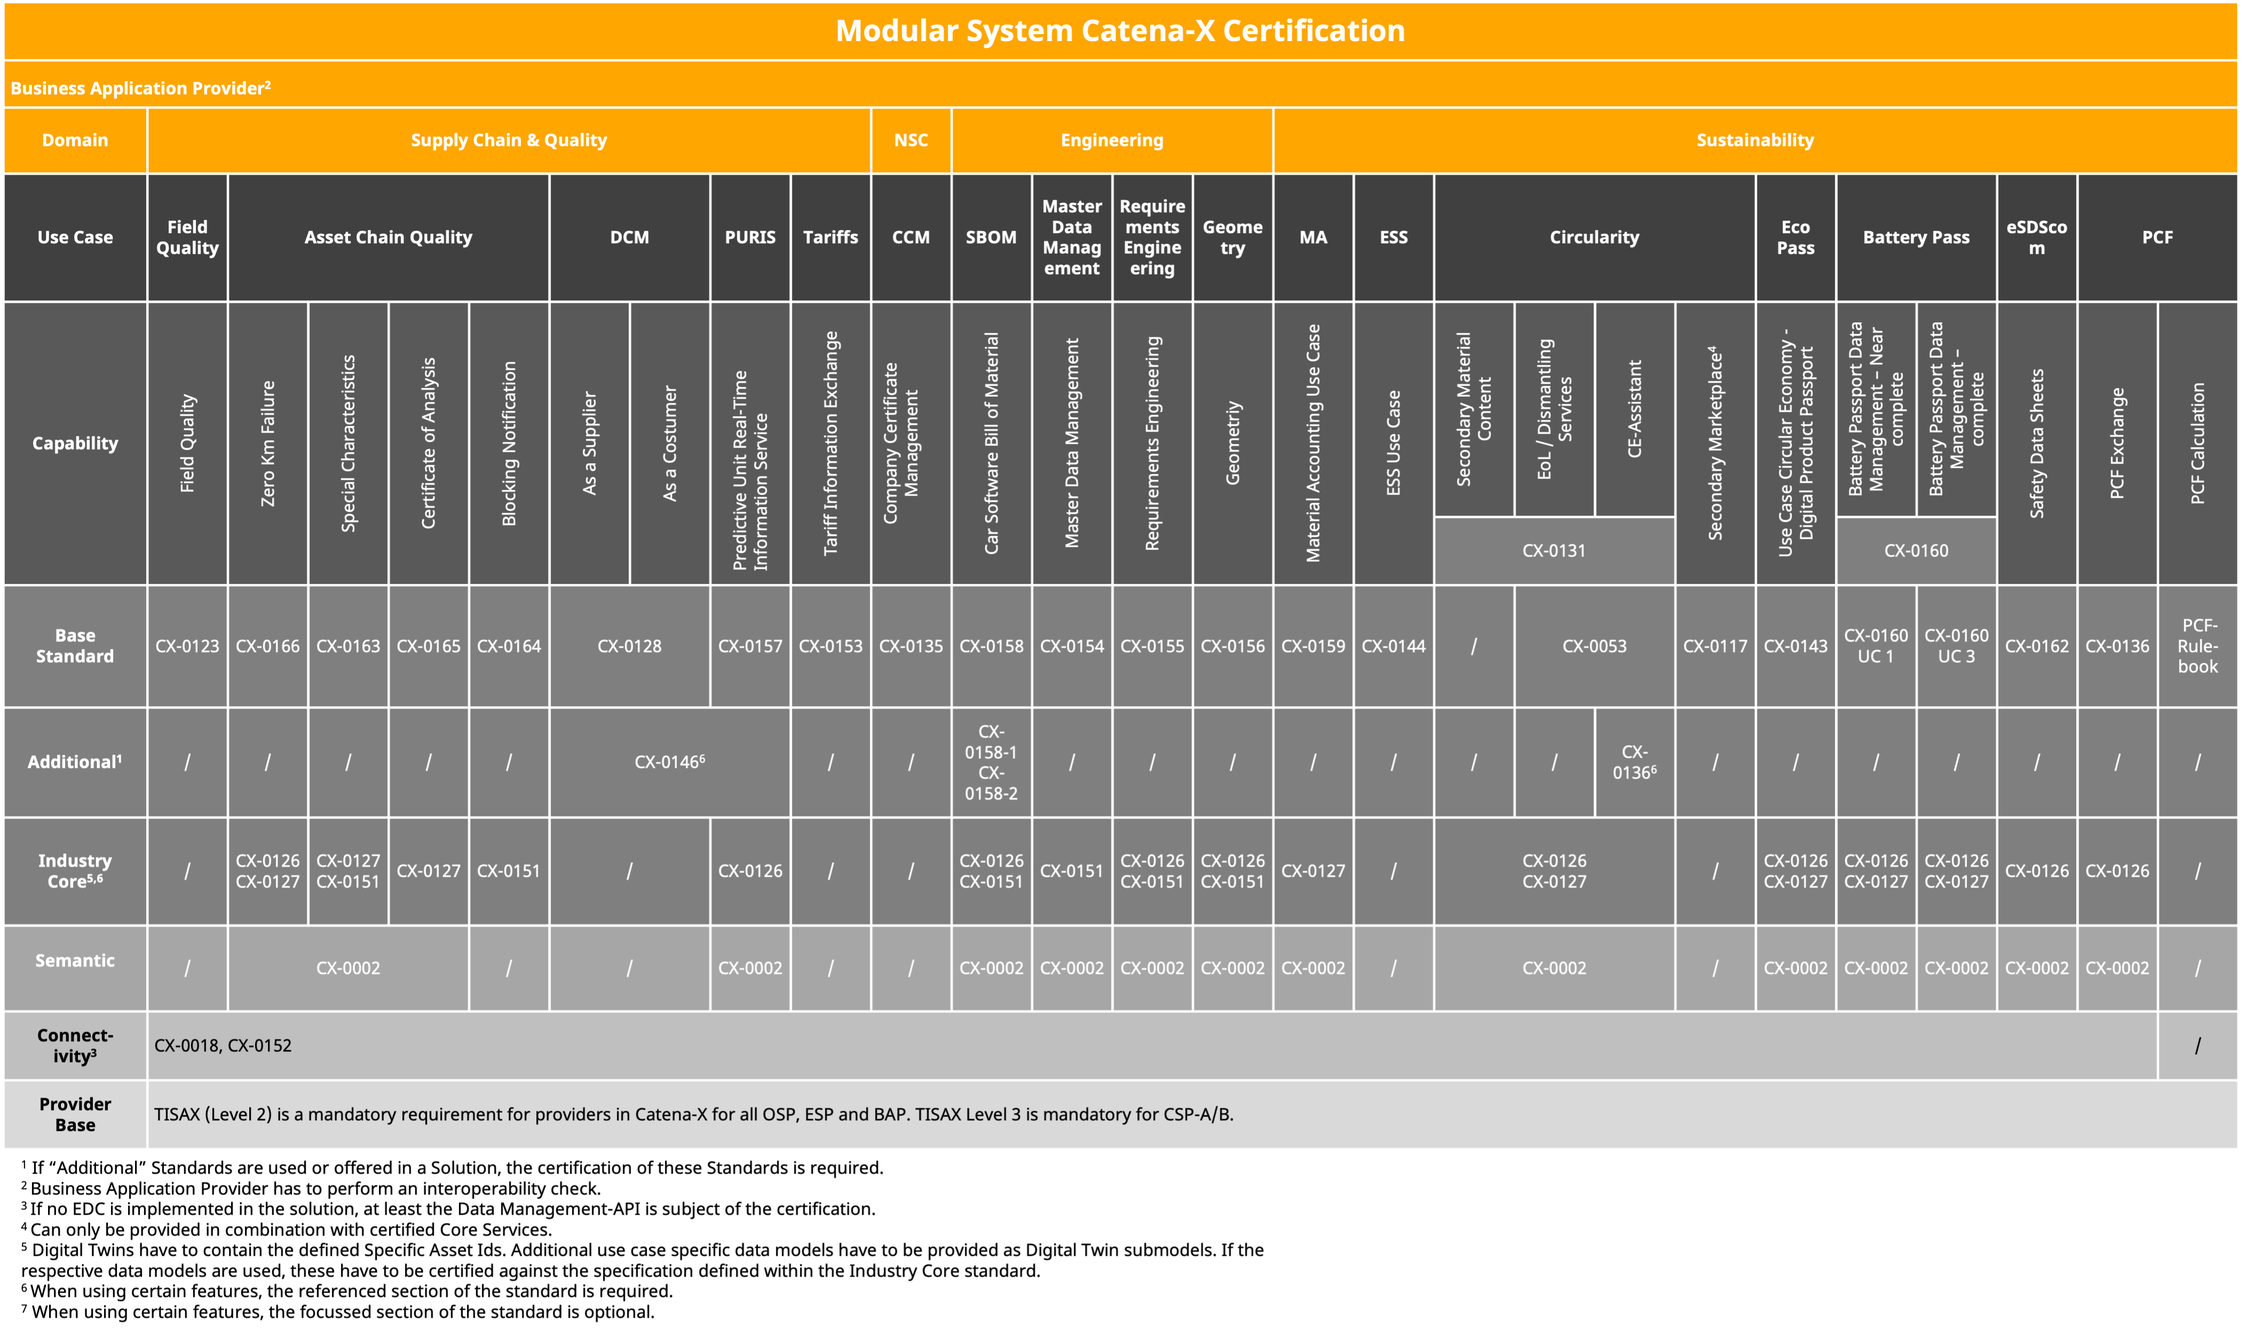
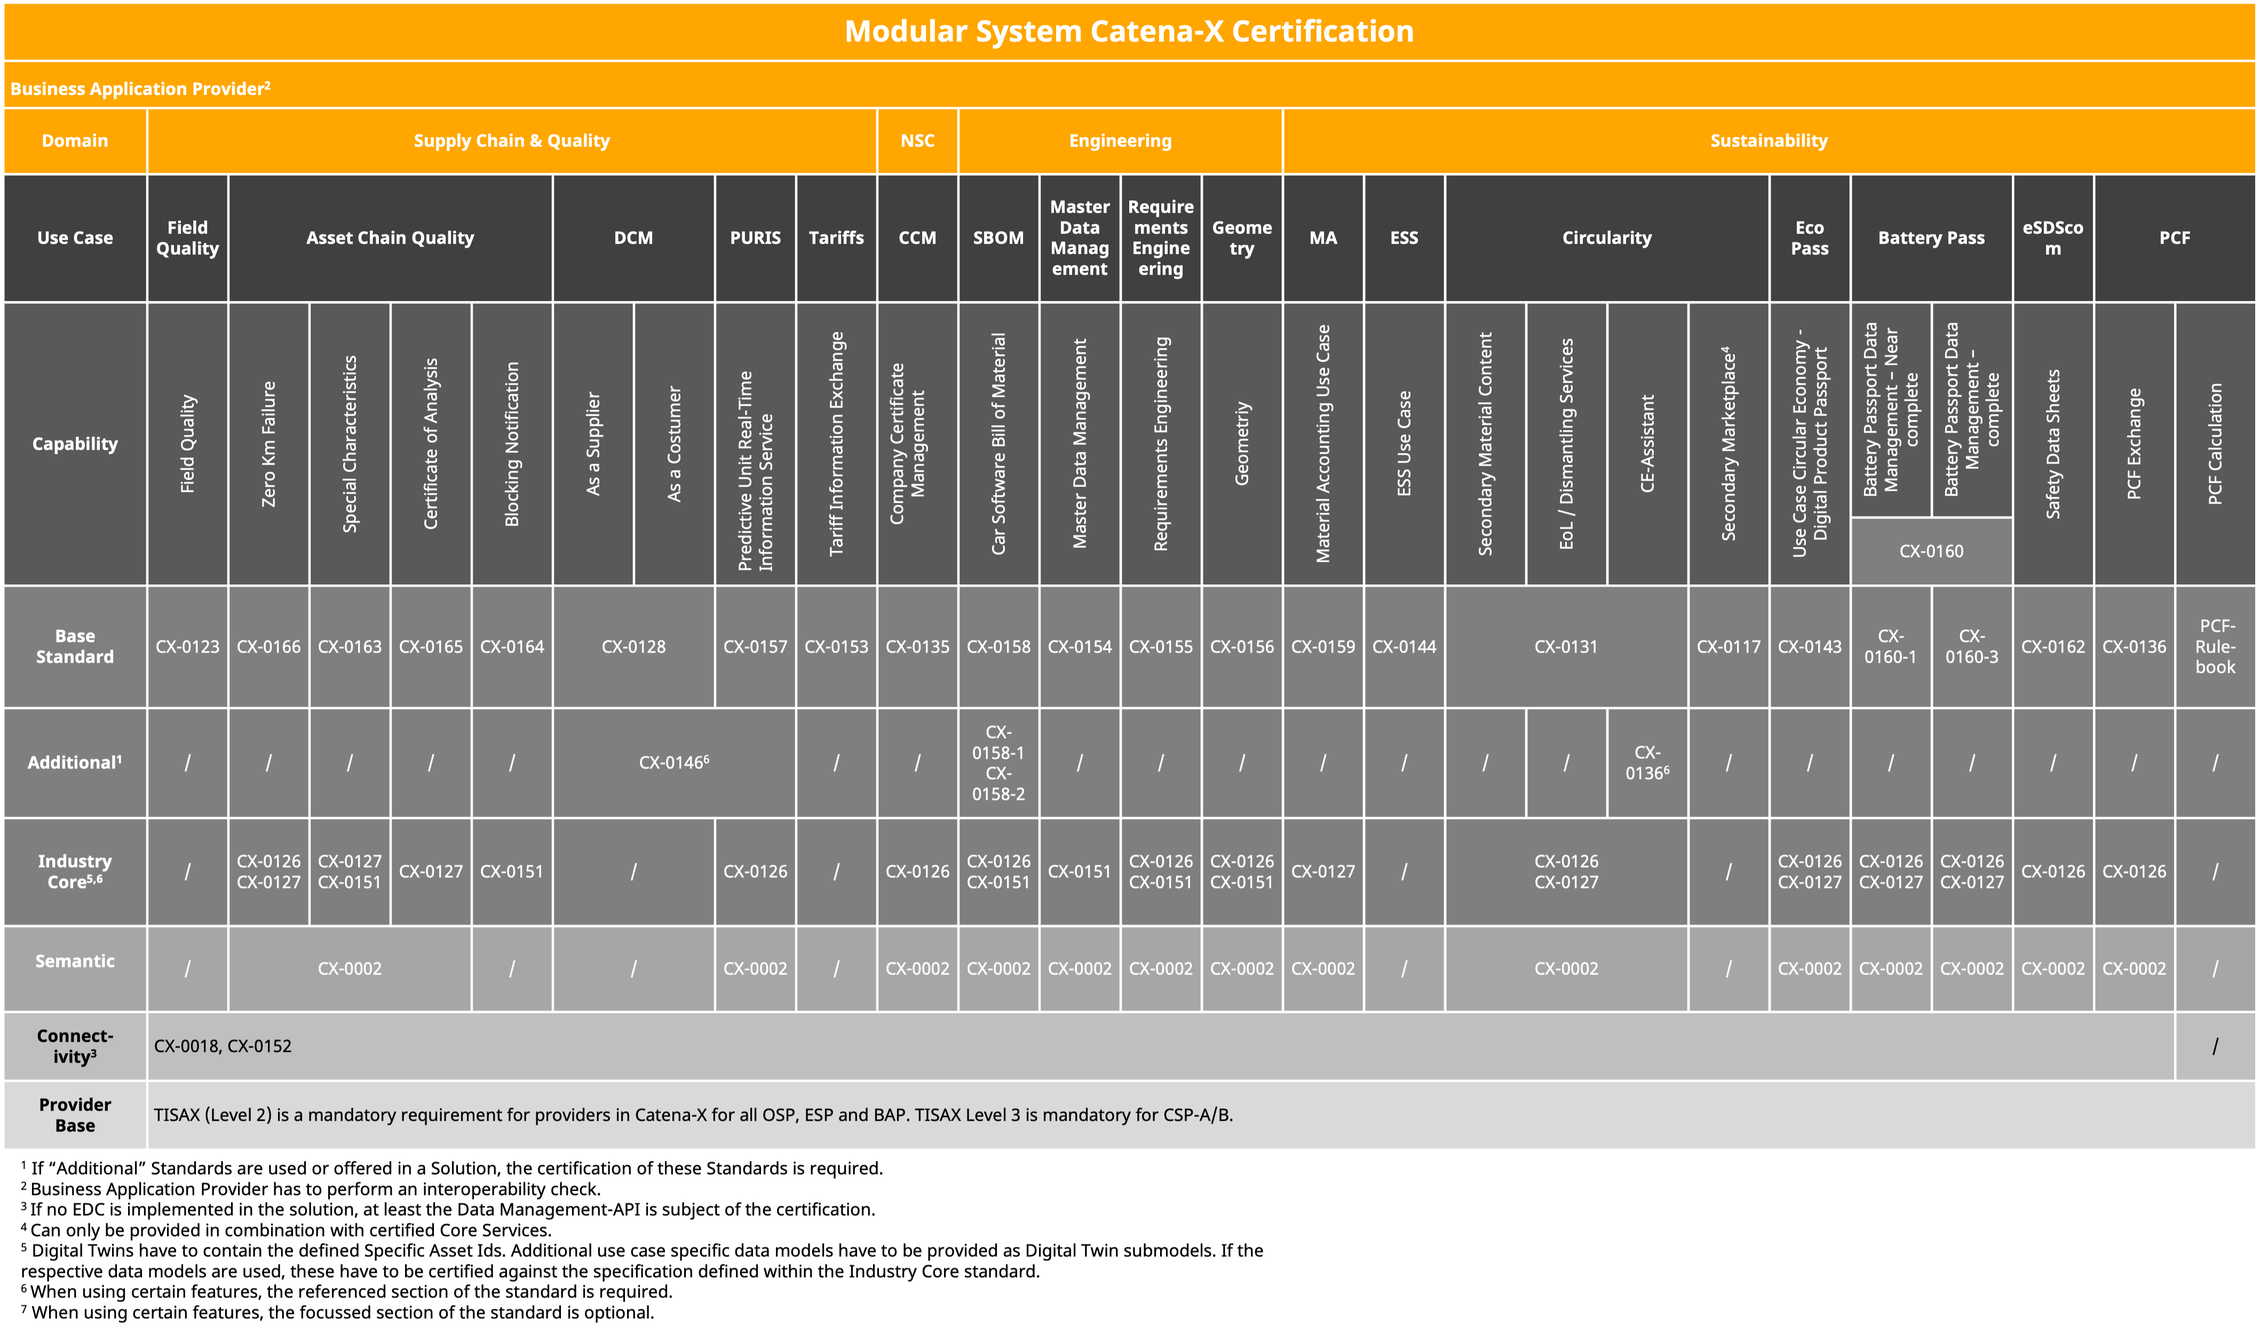
Resolved Comments and added Docusaurs admonitions

diff --git a/docs/rulebooks/CX-NFR-CAF/cx-standards-roles-and-certification-objects.md b/docs/rulebooks/CX-NFR-CAF/cx-standards-roles-and-certification-objects.md
@@ -9,7 +9,7 @@ title: CX Standards, Roles and Certification Objects
 
 #### Audience & Scope (WHO)
 
-Audience & Scope describes which roles are addressed and which scope of the standards is relevant. The roles from the Catena-X Operating Model shall apply here:
+Audience & Scope describes which roles are addressed and which scope of the standards is relevant. [The roles from the Catena-X Operating Model](../../operating-model/who-roles-in-the-catena-x-ecosystem/who-roles-in-the-catena-x-ecosystem) shall apply here:
 
 - Core Service Provider
 - Onboarding Service Providers
@@ -17,10 +17,12 @@ Audience & Scope describes which roles are addressed and which scope of the stan
 - Enablement Service Providers
 - Data Providers and Consumers
 - Sandbox Service Provider
-- Advisory Service Provider\*
-- Conformity Assessment Body\*
+- Advisory Service Provider
+- Conformity Assessment Body
 
-\* Currently not within the scope of CX certification.
+:::note
+Advisory Service Provider and Conformity Assessment Body are currently not within the scope of CX certification.
+:::
 
 #### Normative references (WHAT)
 
@@ -32,7 +34,9 @@ In this respect, normative references can also develop certification relevance a
 
 #### Conformity Assessment Criteria (WHAT)
 
-Standards contain criteria, the so-called CAC, which are checked in an assessment by the Conformity Assessment Body. The CAC can be identified by the keywords: MAY, MUST, MUST NOT, OPTIONAL, RECOMMENDED, REQUIRED, SHOULD and SHOULD NOT (cf. BCP 14 [RFC2119] [RFC8174]). They are only relevant for certification if they appear in capital letters, as shown here. Only the keywords MUST and MUST NOT are subject to the certification and must therefore be fulfilled by a certification applicant.
+:::info
+The CAC can be identified by the keywords: MAY, MUST, MUST NOT, OPTIONAL, RECOMMENDED, REQUIRED, SHOULD and SHOULD NOT (cf. BCP 14 [RFC2119] [RFC8174]). They are only relevant for certification if they appear in capital letters, as shown here. Only the keywords MUST and MUST NOT are subject to the certification and must therefore be fulfilled by a certification applicant.
+:::
 
 Within the CAC, for example, implementations of API solutions or requirements for identification numbers are specified.
 
@@ -43,24 +47,6 @@ The proof of conformity describes the type of compliance with the standard, whic
 For the certification applicant, this means that it, in turn, creates the prerequisite for testing according to the specifications of the proof of conformity.
 
 Basically, the CAC is checked using various "Test procedures". For example, an implementation of the CAC can be proven by a verification document (test procedure: inspection).
-
-### Roles in the Catena-X ecosystem
-
-**Core Service Provider** — Core Service Providers run core services that enable the basic functionality of the Catena-X data ecosystem (e.g., Identity Provider, Marketplace). The Core Service Provider is responsible for the commercial provision, service operation and maintenance, and the release support of the core services in the data ecosystem. It actively markets the core services and is the contractual partner for partners such as Application Provider and Data Provider / Consumer.
-
-**On-Boarding Service Provider** — On-Boarding Service Providers enable Data Provider / Consumer to be integrated into the Catena-X network. This includes organizational and technical onboarding.
-
-**Enablement Service Provider** — Enablement Service Providers equip data ecosystem participants with solutions to provide or consume data within the Catena-X data ecosystem and operate data services e.g., connectors as managed services, that must be used by each data ecosystem participant depending on the use case. (For more information click here)
-
-**Advisory Service Provider**\* — An Advisory Provider offers advisory services in various areas, from strategy to operations to technology or business use cases for those interested in the Catena-X data space. Providing advisory services includes different kind of guidance, but does not include the operation of technical services. (For more information click here)
-
-**Business Application Provider** — Business Application Providers run business applications that solve a specific business problem (e.g., traceability, demand and capacity management, circular economy). Business applications can range from enterprise solutions to specialized solutions for small and medium sized enterprises (SMEs). (For more information click here)
-
-**Data Provider / Consumer**\* — Data Providers / Consumers (with and without a legacy system) provide, consume, and manipulate data to collaborate with other data ecosystem participants by means of core and data services as well as business apps. (For more information click here)
-
-In general Deep Dives to the different roles can be found [here](../../operating-model/who-roles-in-the-catena-x-ecosystem)
-
-\* Currently not within the scope of CX certification.
 
 ## Certification objects: provider and solution
 

diff --git a/docs/rulebooks/CX-NFR-CAF/certification-process-certificate-and-updates.md b/docs/rulebooks/CX-NFR-CAF/certification-process-certificate-and-updates.md
@@ -7,7 +7,7 @@ title: Certification Process, Certificate and Updates
 
 ### Certification process
 
-As part of the certification process, certification applicants are guided through five phases. The phases are the prospect, inquiry, offer, certification and award phases.
+As part of the certification process, certification applicants are guided through five phases. The phases are the prospect, inquiry, proposal, certification and award phases.
 
 Prospect phase → Inquiry phase → Proposal phase → Certification phase → Award phase
 
@@ -31,7 +31,9 @@ Return loops in the process:
 8. **Awarding of the certificate** — The CAB awards the certificate on behalf of CX. CX publishes the result on the CX homepage
 9. **Part of the Catena-X data ecosystem** — The certificate is valid for the entire duration of a release. If the certification applicant certificate has expired, a recertification must be carried out
 
+:::danger
 Upon expiration, the certificate will be removed from the CX homepage and participation in the CX data ecosystem will no longer be allowed. Thus, the renewal of the certificate is the responsibility of the certified company.
+:::
 
 ### Self-assessment and template for declaration of completeness and correctness
 
@@ -95,7 +97,7 @@ Backward compatibility is intended to determine the temporal extent of a recerti
 
 Changes in requirements, e.g., new relevant standards for the use case or new CAC lead to recertification.
 
-At the end of the transitional period the certified person will be deprived of the right to operate in the CX ecosystem.
+At the end of the transitional period the certified solution will be deprived of the right to operate in the CX ecosystem.
 
 The backward compatibility and thus the transition period can be suspended by Catena-X if necessary\*\*.
 
@@ -136,7 +138,7 @@ Catena-X Certificates are issued based on Catena-X Releases (e.g. CX-Neptune). T
 
 - A certificate always names the End of the release it was issued for (e.g. End of Neptune).
 - Changes introduced by later releases (new or updated standards, new test cases) are not covered retroactively by an existing certificate.
-- A certificate cannot be transferred to another release without a formal (re-)assessment, unless the preconditions set under [Extension of Certificates](#extension-of-certificates)
+- A certificate cannot be transferred to another release without a formal (re-)assessment, unless the preconditions set under [Extension of Certificates](#extension-of-certificates) are met.
 
 ### Validity Period
 
@@ -159,4 +161,6 @@ Currently, nominated Standards outside of patch changes:
 
 - CX-0128
 
-Example: A DCM app that was certified for Jupiter has its certificate for the specific standard CX-0128 extended from “End of Jupiter” to “End of Saturn” upon request to the association. Other standards included in the application stack (such as CX-0018) to which the **no change** scenario does not apply must still be recertified by a CAB. Practically, this means the DCM app must migrate from a Jupiter-compliant EDC to at least a Saturn-compliant connector and evidence this to the CAB, otherwise the overall product certification elapses despite the extended CX-0128 certificate.
+:::tip[Example]
+A DCM app that was certified for Jupiter has its certificate for the specific standard CX-0128 extended from "End of Jupiter" to "End of Saturn" upon request to the association. Other standards included in the application stack (such as CX-0018) to which the no change scenario does not apply must still be recertified by a CAB. Practically, this means the DCM app must migrate from a Jupiter-compliant EDC to at least a Saturn-compliant connector and evidence this to the CAB, otherwise the overall product certification elapses despite the extended CX-0128 certificate.
+:::

diff --git a/docs/rulebooks/CX-NFR-CAF/modular-system-and-cross-cutting-requirements.md b/docs/rulebooks/CX-NFR-CAF/modular-system-and-cross-cutting-requirements.md
@@ -48,11 +48,13 @@ In Catena-X six roles are enabled for certification. Each role comprises the Use
 - **Data Provider & Data Consumer:** Connector, Participant Wallet
 - **Enablement Service Provider:** Connector as a Service, Digital Twin Registry as a Service, Wallet as a Service
 - **Business Application Provider:** Quality, Traceability, Behavioral Twin, PCF, Circularity, Eco Pass, ESS, Logistics, MaaS, Modular Production, DCM, PURIS, OSIM, CCM, Tariffs, Engineering, SBOM, Material Accounting
-- **Core Service Provider:**: Core Services
+- **Core Service Provider:** Core Services
 - **Onboarding Service Provider:** Onboarding Services
 - **Sandbox Service Provider:** Sandbox Services
 
-Under the current release, the Onboarding Service Provider role covers only part of the registration process within the Catena-X data space. The complete process is documented separately in the **Catena-X Operating Model**.
+:::note
+Under the current release, the Onboarding Service Provider role covers only part of the registration process within the Catena-X data space. The complete process is documented separately in the Catena-X Operating Model.
+:::
 
 ## Determination of the Certification Scope by Role
 
@@ -88,8 +90,12 @@ For a Business Application, the certification scope includes every row of the ap
 
 ## Cross-Cutting Requirements
 
-a) **Additional standards.** Standards listed under "Additional" apply conditionally based on if the standard defines is a capability the certification applicant integrated into their application
+**Additional standards.** Standards listed under "Additional" apply conditionally when the certification applicant integrates the capability defined by the standard.
 
-b) **Connectivity.** Every solution shall either be capable of using an EDC or provide an integrated EDC. Within certification the testing of the application is to be done via EDC. A fully operational Catena-X Application Stack needs to be presented to the CAB.
+:::warning
+Every solution shall either be capable of using an EDC or provide an integrated EDC. Within certification the testing of the application is to be done via EDC. A fully operational Catena-X Application Stack needs to be presented to the CAB.
+:::
 
-c) **Interoperability check.** In addition to certifying the applicable standards, Business Application Providers are recommended to complete an interoperability check with another application provider.
+:::tip
+In addition to certifying the applicable standards, Business Application Providers are recommended to complete an interoperability check with another application provider.
+:::

diff --git a/docs/rulebooks/CX-NFR-CAF/cab-conformity-assessment-body.md b/docs/rulebooks/CX-NFR-CAF/cab-conformity-assessment-body.md
@@ -22,7 +22,9 @@ A CAB must meet certain eligibility requirements in order to be nominated as a C
 
 ## Requirements for a CAB
 
-*A company that wants to assume the role of the Conformity Assessment Body in the Catena-X ecosystem must meet the following minimum requirements and prove this to Catena-X.*
+:::info
+A company that wants to assume the role of the Conformity Assessment Body in the Catena-X ecosystem must meet the following minimum requirements and prove this to Catena-X.
+:::
 
 | Requirement                                                                                  | Explanation                                                                                                                                                                                                                                                                                                                             |
 |----------------------------------------------------------------------------------------------|-----------------------------------------------------------------------------------------------------------------------------------------------------------------------------------------------------------------------------------------------------------------------------------------------------------------------------------------|

diff --git a/docs/rulebooks/CX-NFR-CAF/introduction-and-framework.md b/docs/rulebooks/CX-NFR-CAF/introduction-and-framework.md
@@ -23,7 +23,7 @@ The chapter on **"CAB"** explains what a CAB is, which tasks it performs in the 
 
 The following chapter **"Modular system in the context of CX Standards"** defines the modular system and provides an explanation of how to use it on the basis of examples. Below, the chapter **"Certification catalog"** shows the structure of the certification catalog and explains the individual column contents in more detail.
 
-The **"Test procedures"** are explained in detail. In addition, it is shown what an inherent test can look like and what the documents and proofs must look like according to IPE specifications.
+The **"Test procedures"** are explained in detail and in addition, it is shown what an inherent test can look like.
 
 The chapter **"Certification process"** describes the certification process from the request to the awarding of the certificate. Building on this, the certificate and its individual components are shown in the next chapter.
 

diff --git a/docs/rulebooks/CX-NFR-CAF/test-procedures.md b/docs/rulebooks/CX-NFR-CAF/test-procedures.md
@@ -5,9 +5,9 @@ title: Test Procedures
 
 ## Test procedures overview
 
-To check the CAC and thus the standards, the CAB uses the test procedures defined in the framework. Each CAC a test procedure is assigned in the catalog, which is shown and explained below.
+To check the CAC and thus the standards, the CAB uses the test procedures defined in the framework. Each CAC is assigned a test procedure in the catalog, as shown and explained below.
 
-If a CAC or a standard is not applicable, e.g., because the solution does not use the semantic model, the CAC can be outsourced by the CAB with not applicable (n/a) and a justification.
+If a CAC or a standard is not applicable, the CAC can be outsourced by the CAB with not applicable (n/a) and a justification.
 
 The eight test procedures in sequence: Inspection · Observation · Self-assessment · Inquiry · Confirmation · Recalculation · Reperformance · Analytical Procedures
 

diff --git a/docs/rulebooks/CX-NFR-CAF/certification-catalog.md b/docs/rulebooks/CX-NFR-CAF/certification-catalog.md
@@ -3,7 +3,7 @@ sidebar_position: 5
 title: Certification Catalog
 ---
 
-The certification catalog is the central reference document for Catena-X conformity assessments. It translates the Catena-X standards into auditable requirements (so-called CAC (Catena-X Assessment Criteria)) and defines how each requirement is to be tested. It answers three questions for every requirement:
+The certification catalog is the central reference document for Catena-X conformity assessments. It translates the Catena-X standards into auditable requirements (so-called CAC (Conformity Assessment Criteria)) and defines how each requirement is to be tested. It answers three questions for every requirement:
 
 1. What must be fulfilled? (requirement)
 2. How binding is it? (MUST / SHOULD / MUST NOT / SHOULD NOT)
